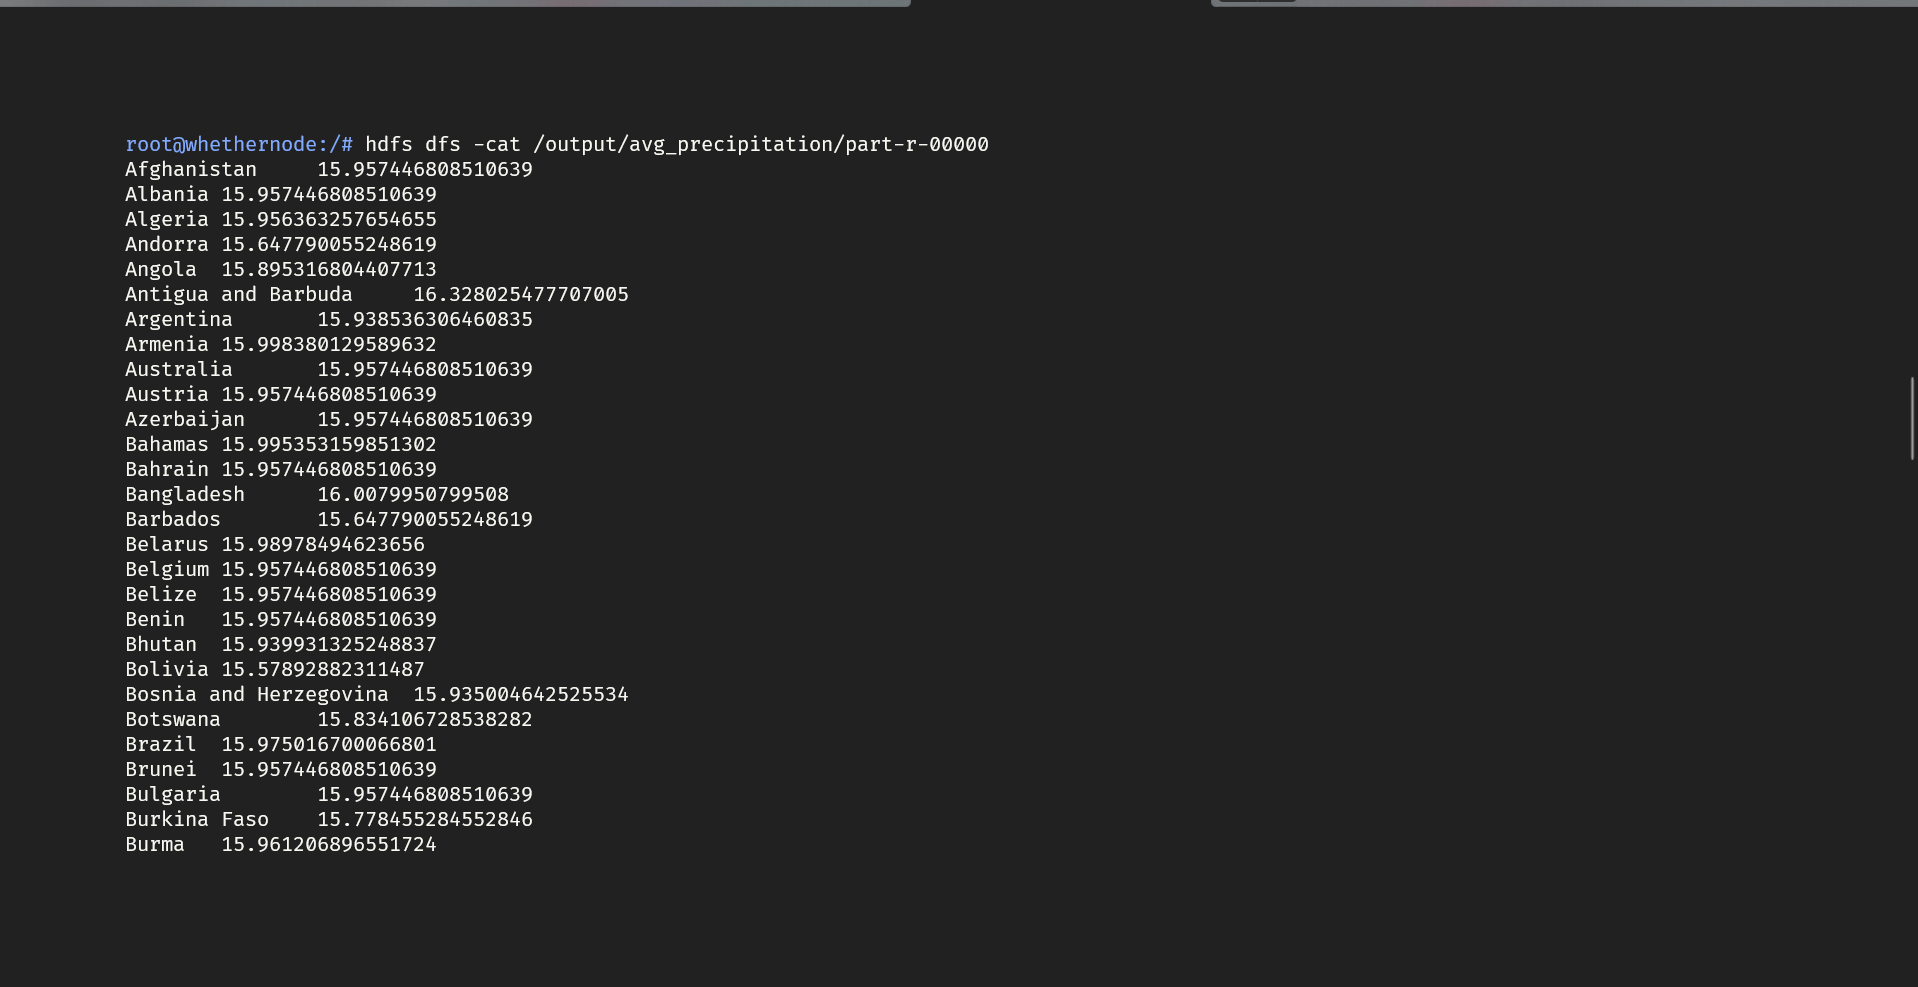
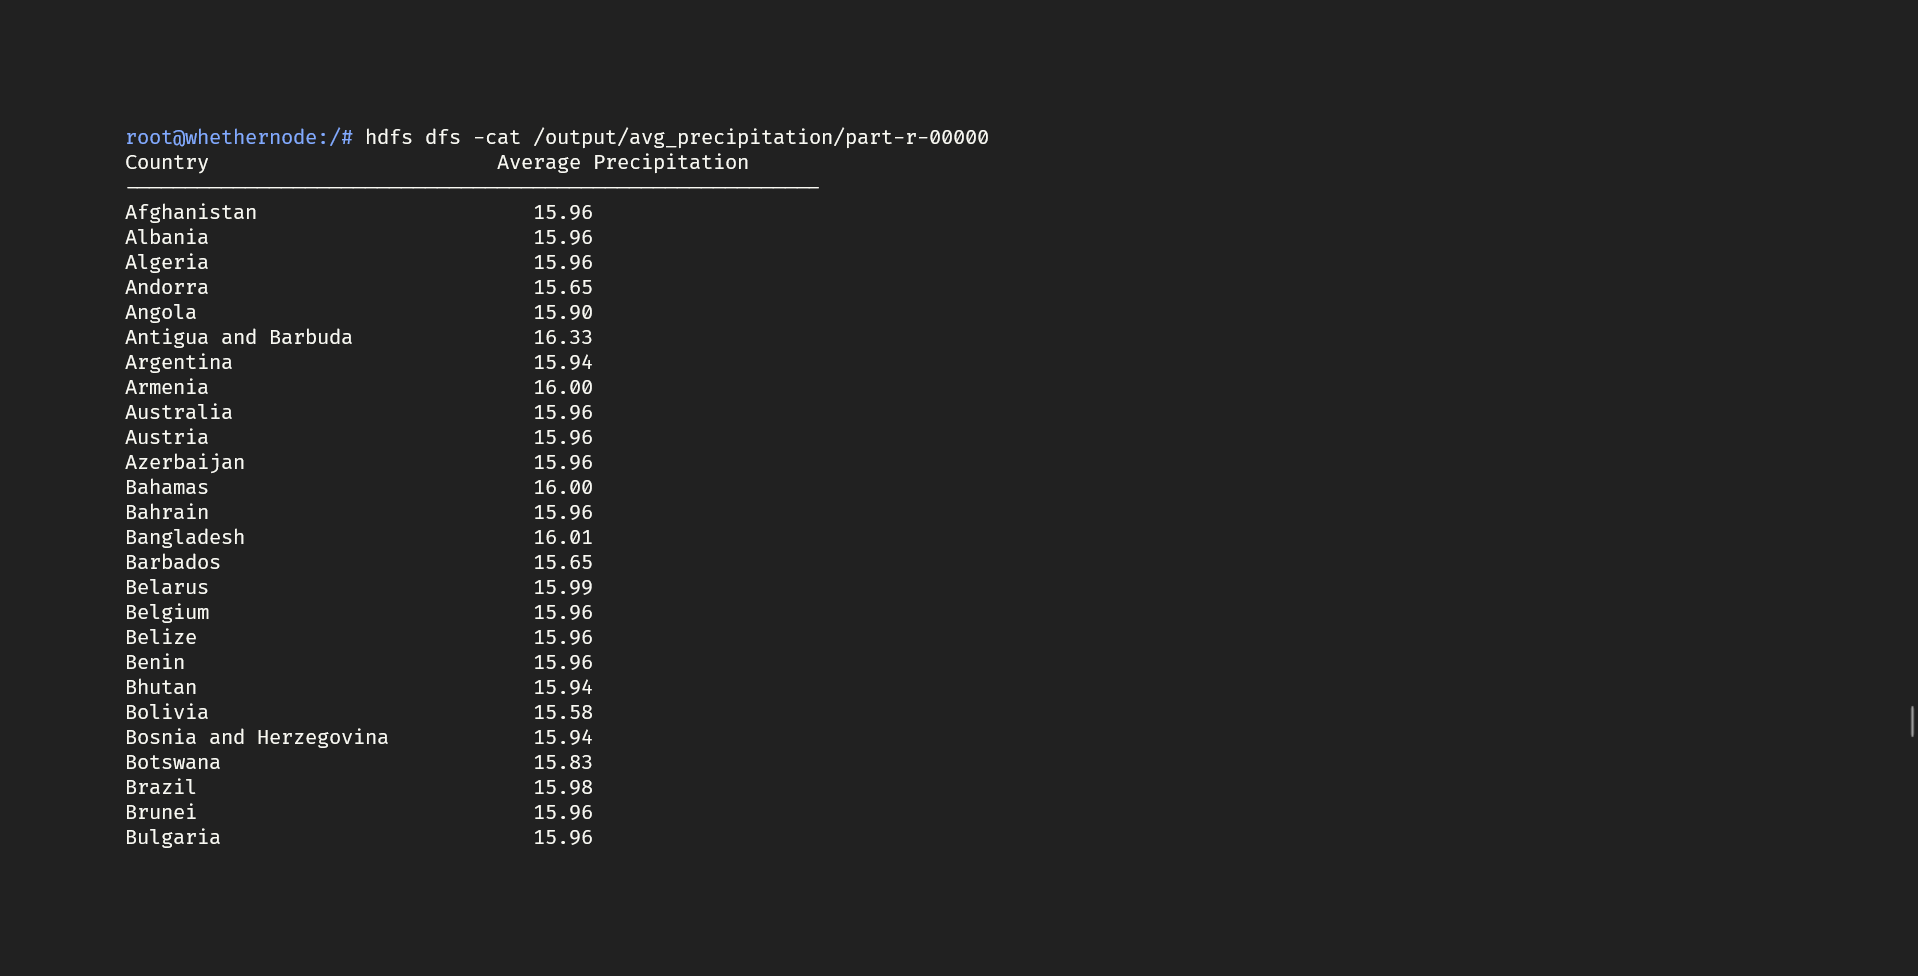
reducer function modified

Changed region(s): [[0.0615, 0.123, 0.5229, 0.8607], [0.0, 0.0, 0.4614, 0.0307], [0.646, 0.0, 1.0, 0.0307]]

diff --git a/src/main/java/org/thana/WeatherAnalysis/PrecipReducer.java b/src/main/java/org/thana/WeatherAnalysis/PrecipReducer.java
@@ -6,16 +6,31 @@ import org.apache.hadoop.io.DoubleWritable;
 import org.apache.hadoop.io.Text;
 import org.apache.hadoop.mapreduce.Reducer;
 
-public class PrecipReducer extends Reducer<Text, DoubleWritable, Text, DoubleWritable> {
-  public void reduce(Text key, Iterable<DoubleWritable> values, Context context) throws IOException, InterruptedException {
+public class PrecipReducer extends Reducer<Text, DoubleWritable, Text, Text> {
+
+  @Override
+  protected void setup(Context context) throws IOException, InterruptedException {
+    // Output header row
+    context.write(new Text(String.format("%-30s %s", "Country", "Average Precipitation")), null);
+    context.write(new Text("----------------------------------------------------------"), null);
+  }
+
+  @Override
+  public void reduce(Text key, Iterable<DoubleWritable> values, Context context)
+      throws IOException, InterruptedException {
+
     double sum = 0;
     int count = 0;
+
     for (DoubleWritable val : values) {
       sum += val.get();
       count++;
     }
+
     if (count > 0) {
-      context.write(key, new DoubleWritable(sum / count));
+      double average = sum / count;
+      String formattedLine = String.format("%-30s %8.2f", key.toString(), average);
+      context.write(new Text(formattedLine), null);  // nicely aligned output
     }
   }
 }

diff --git a/src/main/java/org/thana/WeatherAnalysis/TempReducer.java b/src/main/java/org/thana/WeatherAnalysis/TempReducer.java
@@ -5,16 +5,30 @@ import org.apache.hadoop.io.DoubleWritable;
 import org.apache.hadoop.io.Text;
 import org.apache.hadoop.mapreduce.Reducer;
 
-public class TempReducer extends Reducer<Text, DoubleWritable, Text, DoubleWritable> {
-  public void reduce(Text key, Iterable<DoubleWritable> values, Context context) throws IOException, InterruptedException {
+public class TempReducer extends Reducer<Text, DoubleWritable, Text, Text> {
+
+  @Override
+  protected void setup(Context context) throws IOException, InterruptedException {
+    context.write(new Text(String.format("%-30s %s", "Country", "Average Temperature")), null);
+    context.write(new Text("----------------------------------------------------------"), null);
+  }
+
+  @Override
+  public void reduce(Text key, Iterable<DoubleWritable> values, Context context)
+      throws IOException, InterruptedException {
+
     double sum = 0;
     int count = 0;
+
     for (DoubleWritable val : values) {
       sum += val.get();
       count++;
     }
+
     if (count > 0) {
-      context.write(key, new DoubleWritable(sum / count));
+      double average = sum / count;
+      String formattedLine = String.format("%-30s %8.2f", key.toString(), average);
+      context.write(new Text(formattedLine), null);
     }
   }
 }
